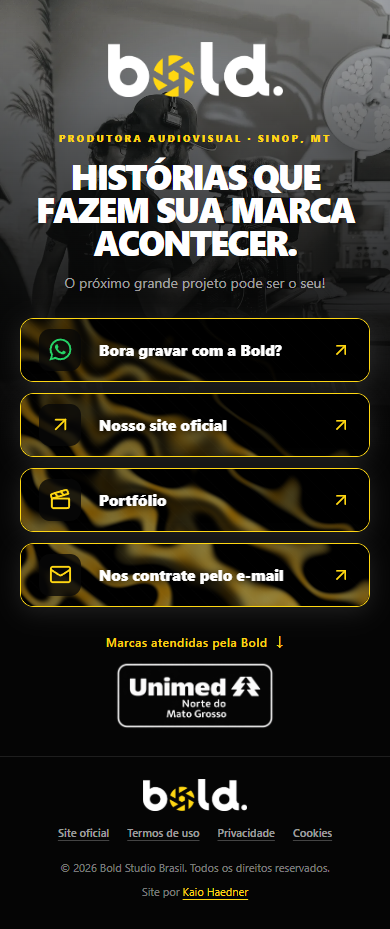
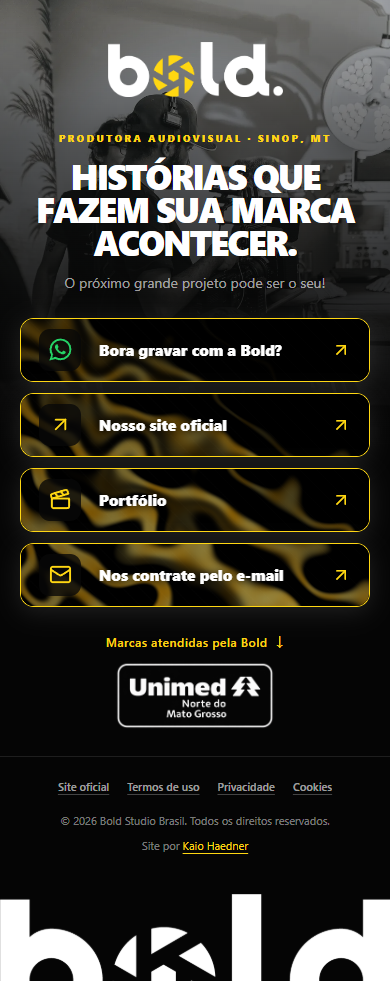
fix(bio): use oversized white home footer signature

diff --git a/src/shared/styles/global.css b/src/shared/styles/global.css
@@ -2458,7 +2458,7 @@ button.project-full-video__poster { cursor: pointer; }
     font-size: clamp(4rem, 8vw, 8rem);
   }
 }
-.bio-page { position: relative; isolation: isolate; display: flex; flex-direction: column; align-items: center; justify-content: center; gap: 26px; min-height: 100svh; padding: 32px; background: #0b0b0b; color: #fff; overflow: hidden; }
+.bio-page { position: relative; isolation: isolate; display: flex; flex-direction: column; align-items: center; justify-content: center; gap: 26px; min-height: 100svh; padding: 32px 32px 0; background: #0b0b0b; color: #fff; overflow: hidden; }
 .bio-page::before { content: ''; position: fixed; z-index: -1; inset: -30px; pointer-events: none; background: linear-gradient(#05050580, #050505b8), url('/media/backgrounds/dsc08947-2a253d502445.webp') center / cover; filter: blur(18px); opacity: .75; }
 .bio-page__desktop { width: min(940px, 100%); min-height: 530px; display: grid; grid-template-columns: 44% 56%; overflow: hidden; border: 1px solid #ffffff21; border-radius: 20px; background: #101010; box-shadow: 0 24px 90px #0008; }
 .bio-page__desktop-photo { min-height: 100%; background: url('/media/backgrounds/dsc08947-2a253d502445.webp') center 36% / cover no-repeat; }
@@ -2530,13 +2530,13 @@ button.project-full-video__poster { cursor: pointer; }
 .bio-page__client-logo img { display: block; max-width: 100%; max-height: 70px; object-fit: contain; }
 @keyframes bio-logo-reveal { 0%, 100% { opacity: 0; transform: translateY(5px); } 15%, 85% { opacity: 1; transform: none; } }
 .bio-page__footer { width: min(940px, 100%); text-align: center; }
-.bio-page__footer-logo { display: block; width: 104px; height: auto; margin: 0 auto 14px; }
+.bio-page > .footer-wordmark { flex: none; width: calc(100% + 64px); }
 .bio-page__legal { display: flex; justify-content: center; flex-wrap: wrap; gap: 8px 18px; }
 .bio-page__legal a { color: #ffffff9c; font-size: 11px; font-weight: 500; text-decoration: underline; text-decoration-color: #ffffff40; text-underline-offset: 3px; transition: color .2s; }
 .bio-page__legal a:hover, .bio-page__legal a:focus-visible { color: #ffd712; }
 .bio-page__credits { margin-top: 12px; display: flex; flex-direction: column; gap: 5px; color: #ffffff75; font-size: 11px; line-height: 1.5; }
 @media (min-width: 900px) and (max-height: 760px) {
-  .bio-page { padding: 20px 32px; gap: 16px; }
+  .bio-page { padding: 20px 32px 0; gap: 16px; }
   .bio-page__desktop { min-height: 0; }
   .bio-page__desktop-content { padding: 26px 36px; }
   .bio-page__desktop-logo { width: 125px; }
@@ -2545,10 +2545,10 @@ button.project-full-video__poster { cursor: pointer; }
   .bio-page__desktop-instruction { margin-top: 8px; }
   .bio-page__qr-card { margin: 16px 0; }
   .bio-page__qr-card > img { width: 100px; height: 100px; }
-  .bio-page__footer-logo { width: 88px; margin-bottom: 10px; }
 }
 @media (max-width: 899px) {
   .bio-page { display: block; padding: 0; background: #050505; }
+  .bio-page > .footer-wordmark { width: 100%; }
   .bio-page::before { display: none; }
   .bio-page__desktop { display: none; }
   .bio-page__mobile { display: flex !important; }

diff --git a/src/apps/site/pages/BioPage.tsx b/src/apps/site/pages/BioPage.tsx
@@ -4,6 +4,7 @@ import clientLogos from '@/apps/site/data/client-logos.json'
 import { BOLD_WHATSAPP } from '@/shared/lib/whatsapp'
 import { KaioCredit } from '@/shared/components/KaioCredit'
 import { useBioButtonAuras } from '@/shared/hooks/useBioButtonAuras'
+import { FooterWordmark } from '@/apps/site/components/FooterWordmark'
 
 const BIO_URL = 'https://bio.boldstudiobrasil.com/bio'
 const SITE = 'https://boldstudiobrasil.com/home-bold-studio-sinop-brasil'
@@ -93,12 +94,12 @@ export function BioPage() {
       </div>
     </section>
     <footer className="bio-page__footer">
-      <img className="bio-page__footer-logo" src="/brand/logo-boldstudio.webp" alt="Bold Studio Brasil" width="104" height="37" loading="lazy" />
       <nav className="bio-page__legal" aria-label="Páginas essenciais">
         <a href={SITE}>Site oficial</a>
         {LEGAL_LINKS.map(({ label, href }) => <a key={href} href={href}>{label}</a>)}
       </nav>
       <div className="bio-page__credits"><p>© {new Date().getFullYear()} Bold Studio Brasil. Todos os direitos reservados.</p><p><KaioCredit /></p></div>
     </footer>
+    <FooterWordmark />
   </main>
 }

diff --git a/docs/saves/SAVE-BIO-FOOTER-WORDMARK-2026-10-15.md b/docs/saves/SAVE-BIO-FOOTER-WORDMARK-2026-10-15.md
@@ -1,0 +1,16 @@
+# Bio — assinatura branca gigante no rodapé
+
+URL: https://bio.boldstudiobrasil.com/bio
+
+A solicitação substitui a logo pequena experimental pelo mesmo encerramento da home, confirmado pela captura fornecida pelo usuário.
+
+- A logo pequena foi removida da Bio.
+- `FooterWordmark` foi reutilizado após os créditos, com o mesmo arquivo `boldstudio-footer-white-538e252ccec7.webp`, a mesma escala e o mesmo corte da home.
+- A assinatura ocupa a largura inteira do viewport no desktop e no celular, sem margem lateral ou espaço após o recorte no final da página.
+- A assinatura acrescenta uma área após os créditos; a altura total da página pode ultrapassar a tela no desktop.
+
+Build e lint da página concluídos. Chrome em 1366×768, 1280×720, 1024×768, 900×600, 390×844 e 360×740: imagem carregada, largura igual ao viewport, corte inferior presente, fim da assinatura coincidente com o fim da página, ausência da logo pequena e nenhum overflow horizontal ou erro JavaScript.
+
+Capturas atualizadas: `docs/qa/2026-10-15/bio-desktop.png` e `bio-mobile.png`.
+
+Após o deploy, a conferência no domínio público em 1366×768 e 390×844 também passou. Capturas finais obtidas dessa versão publicada.
